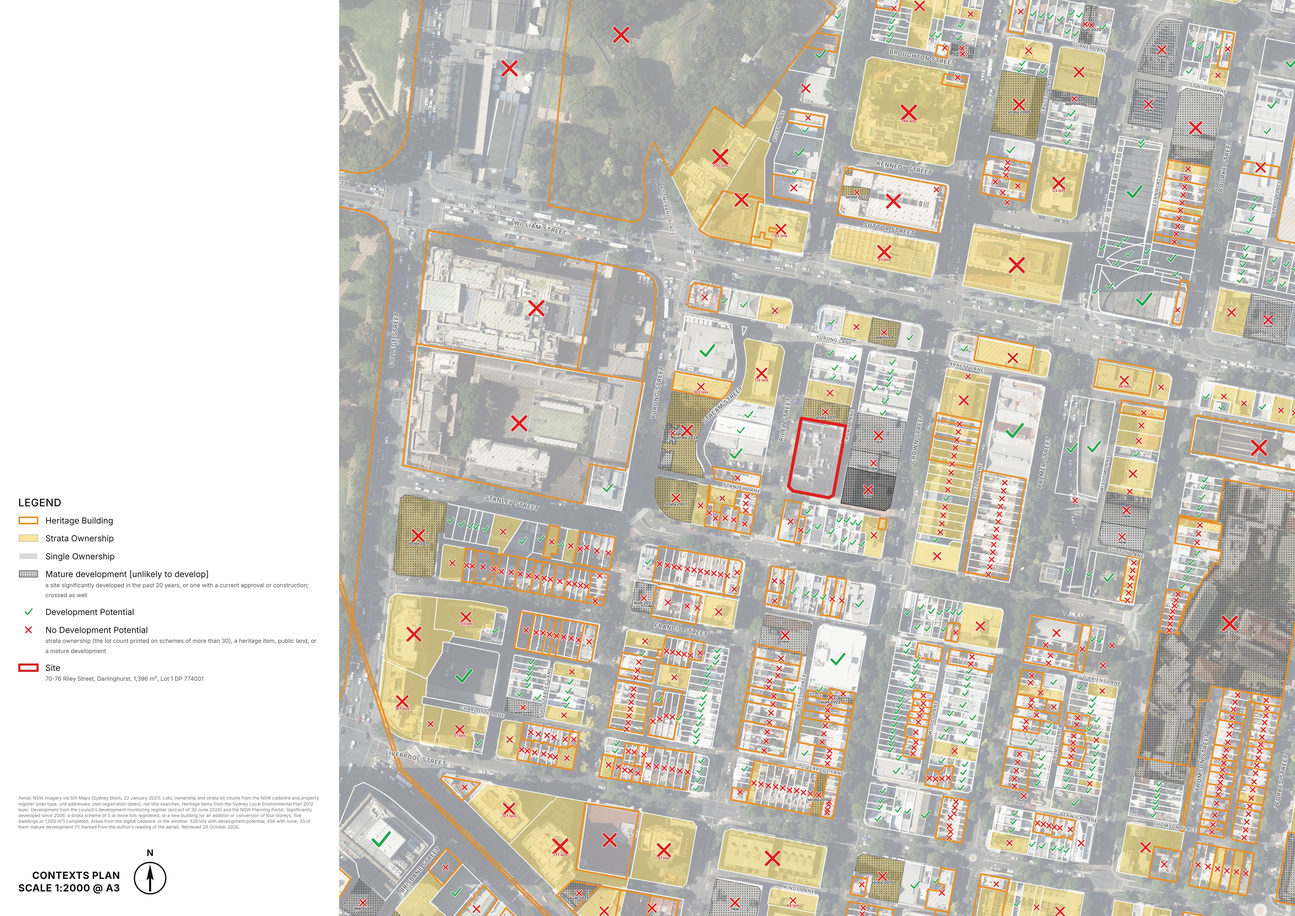
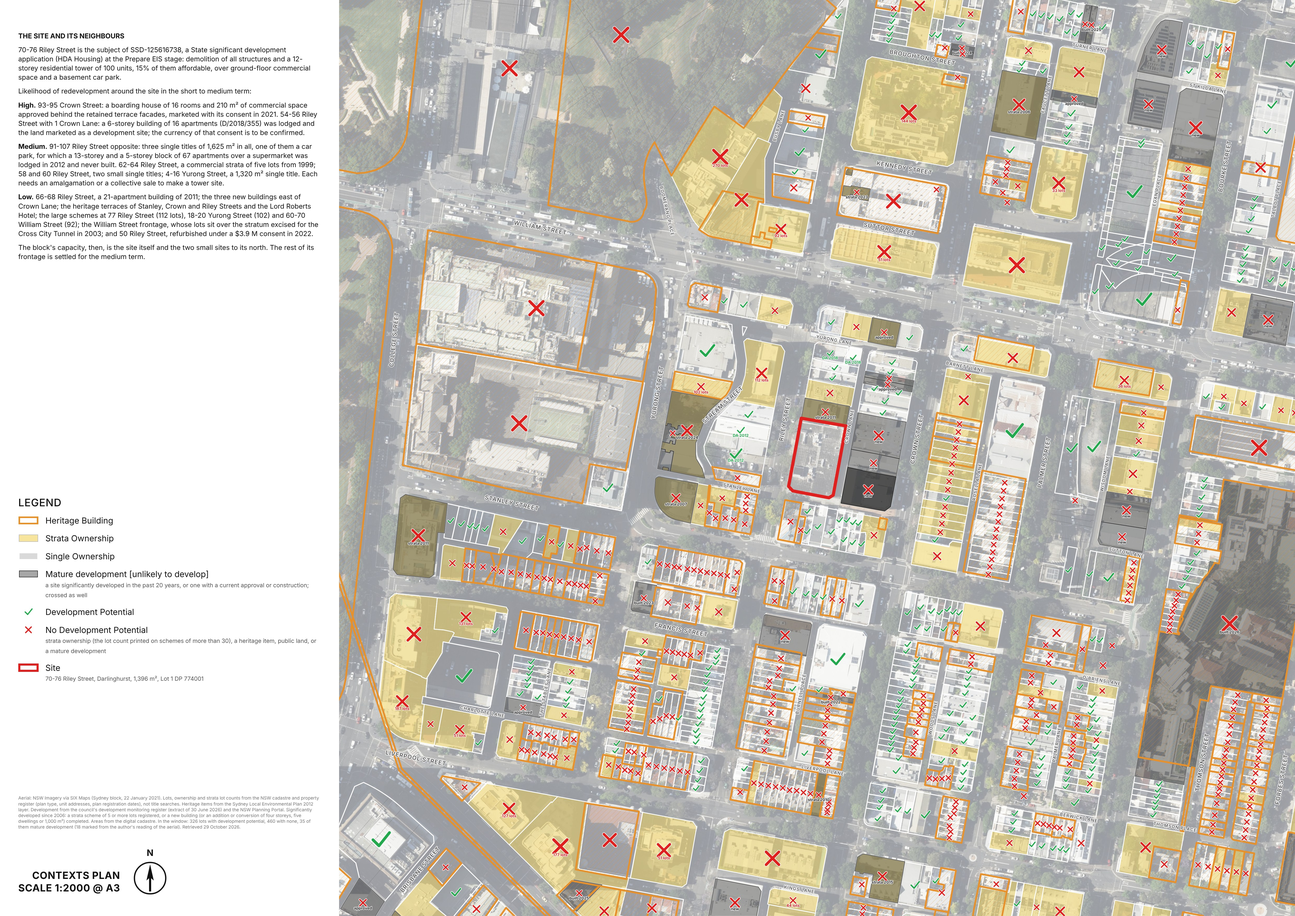
Capacity study: a plain grey patch, notes in the panel, and the Riley Street example read again
The mature development's patch is a plain translucent grey: a pattern fill
there made Chromium rasterise the print, and the PDF sixteen megabytes
heavier. A note under a tick takes the tick's green.

The Riley Street example now fills the panel with notes: the site's State
significant application (SSD-125616738, a 12-storey tower of 100 units,
15% affordable, at Prepare EIS) and the likelihood of redevelopment around
it. Its overrides add the approved boarding house at 93-95 Crown Street
and the schemes lodged for 54-56 Riley Street (2018) and 91-107 Riley
Street (2012), which the Online DA API cannot tell from refusals, since it
carries no outcome.

Claude-Session: https://claude.ai/code/session_01VNRPanhp62ev3Z3T48NYcJ

diff --git a/examples/capacity_study/70-76-riley-street-darlinghurst.notes.html b/examples/capacity_study/70-76-riley-street-darlinghurst.notes.html
@@ -1,0 +1,7 @@
+<p><b>THE SITE AND ITS NEIGHBOURS</b></p>
+<p>70-76 Riley Street is the subject of SSD-125616738, a State significant development application (HDA Housing) at the Prepare EIS stage: demolition of all structures and a 12-storey residential tower of 100 units, 15% of them affordable, over ground-floor commercial space and a basement car park.</p>
+<p>Likelihood of redevelopment around the site in the short to medium term:</p>
+<p><b>High.</b> 93-95 Crown Street: a boarding house of 16 rooms and 210 m² of commercial space approved behind the retained terrace facades, marketed with its consent in 2021. 54-56 Riley Street with 1 Crown Lane: a 6-storey building of 16 apartments (D/2018/355) was lodged and the land marketed as a development site; the currency of that consent is to be confirmed.</p>
+<p><b>Medium.</b> 91-107 Riley Street opposite: three single titles of 1,625 m² in all, one of them a car park, for which a 13-storey and a 5-storey block of 67 apartments over a supermarket was lodged in 2012 and never built. 62-64 Riley Street, a commercial strata of five lots from 1999; 58 and 60 Riley Street, two small single titles; 4-16 Yurong Street, a 1,320 m² single title. Each needs an amalgamation or a collective sale to make a tower site.</p>
+<p><b>Low.</b> 66-68 Riley Street, a 21-apartment building of 2011; the three new buildings east of Crown Lane; the heritage terraces of Stanley, Crown and Riley Streets and the Lord Roberts Hotel; the large schemes at 77 Riley Street (112 lots), 18-20 Yurong Street (102) and 60-70 William Street (92); the William Street frontage, whose lots sit over the stratum excised for the Cross City Tunnel in 2003; and 50 Riley Street, refurbished under a $3.9 M consent in 2022.</p>
+<p>The block's capacity, then, is the site itself and the two small sites to its north. The rest of its frontage is settled for the medium term.</p>

diff --git a/scripts/capacity_study/render.py b/scripts/capacity_study/render.py
@@ -73,7 +73,7 @@ ORANGE, WHITE, STRATA, RED, GREEN, CROSS, DOT, INK, GREY = '#e8912a', '#ffffff',
 svg = [f'<svg xmlns="http://www.w3.org/2000/svg" viewBox="{f(VX)} {f(VY)} {f(VW)} {f(VH)}" width="{MAP_W}" height="{MAP_H}" font-family="Inter, Helvetica, Arial, sans-serif">']
 svg.append(f'''<defs>
 <pattern id="heritage" patternUnits="userSpaceOnUse" width="{w(14)}" height="{w(14)}" patternTransform="rotate(45)"><line x1="0" y1="0" x2="0" y2="{w(14)}" stroke="{ORANGE}" stroke-width="{w(1.6)}" stroke-opacity="0.55"/></pattern>
-<pattern id="mature" patternUnits="userSpaceOnUse" width="{w(9)}" height="{w(9)}"><rect width="{w(9)}" height="{w(9)}" fill="{DOT}" fill-opacity="0.22"/><circle cx="{w(4.5)}" cy="{w(4.5)}" r="{w(1.7)}" fill="{DOT}" fill-opacity="0.9"/></pattern>
+<pattern id="mature" patternUnits="userSpaceOnUse" width="{w(10)}" height="{w(10)}"><rect width="{w(10)}" height="{w(10)}" fill="{DOT}" fill-opacity="0.22"/><path d="M0,{w(5)} H{w(10)} M{w(5)},0 V{w(10)}" stroke="{DOT}" stroke-width="{w(1.4)}" stroke-opacity="0.85"/></pattern>
 <clipPath id="win"><rect x="{f(VX)}" y="{f(VY)}" width="{f(VW)}" height="{f(VH)}"/></clipPath>
 </defs>''')
 svg.append('<g clip-path="url(#win)">')
@@ -118,7 +118,7 @@ for pid, r in sorted(props.items(), key=lambda kv: kv[1]['kind'] != 'strata'):
 # mature development: a grey patch over the lot
 for pid, r in props.items():
     if r['geom'] and visible(r) and not r.get('isSite') and mature(r):
-        svg.append(f'<path d="{path(r["geom"])}" fill="url(#mature)" stroke="{DOT}" stroke-width="{w(2)}" stroke-opacity="0.7" stroke-linejoin="round"/>')
+        svg.append(f'<path d="{path(r["geom"])}" fill="{DOT}" fill-opacity="0.42" stroke="{DOT}" stroke-width="{w(2)}" stroke-opacity="0.8" stroke-linejoin="round"/>')
 # heritage buildings: an orange line with a fine orange hatch inside it
 for h in a['heritageItems']:
     svg.append(f'<path d="{path(h["rings"])}" fill="url(#heritage)" stroke="{ORANGE}" stroke-width="{w(6.5)}" stroke-linejoin="round"/>')
@@ -163,7 +163,7 @@ for pid, r in props.items():
         note = str(r['override']['note'])
     if note and not any(math.hypot(x - nx, y - ny) < 70 * U for nx, ny in noted):  # two marks a few millimetres apart share one note
         noted.append((x, y))
-        svg.append(f'<text x="{f(x)}" y="{f(y + s * 0.3 + 16 * U)}" font-size="{w(15)}" font-weight="700" text-anchor="middle" fill="{DOT if mature(r) else CROSS}" stroke="#fff" stroke-width="{w(3)}" paint-order="stroke">{note}</text>')
+        svg.append(f'<text x="{f(x)}" y="{f(y + s * 0.3 + 16 * U)}" font-size="{w(15)}" font-weight="700" text-anchor="middle" fill="{GREEN if kind == "potential" else DOT if mature(r) else CROSS}" stroke="#fff" stroke-width="{w(3)}" paint-order="stroke">{note}</text>')
 
 
 # ---- the streets, named along their centrelines -----------------------------------------------------------------
@@ -235,7 +235,7 @@ legend = [
     (swatch(f'<rect x="4" y="4" width="70" height="24" fill="none" stroke="{ORANGE}" stroke-width="6"/>'), 'Heritage Building'),
     (swatch(f'<rect x="3" y="3" width="72" height="26" fill="{STRATA}" fill-opacity="0.6" stroke="#bbb" stroke-width="2"/>'), 'Strata Ownership'),
     (swatch(f'<rect x="3" y="3" width="72" height="26" fill="#d9d9d9" stroke="{WHITE}" stroke-width="4"/>'), 'Single Ownership'),
-    (swatch(f'<defs><pattern id="lmature" patternUnits="userSpaceOnUse" width="9" height="9"><rect width="9" height="9" fill="{DOT}" fill-opacity="0.22"/><circle cx="4.5" cy="4.5" r="1.7" fill="{DOT}" fill-opacity="0.9"/></pattern></defs><rect x="4" y="4" width="70" height="24" fill="url(#lmature)" stroke="{DOT}" stroke-width="2"/>'), f'Mature development [unlikely to develop]<br><span class="fine">a site significantly developed in the past {RECENT_YEARS} years, or one with a current approval or construction; crossed as well</span>'),
+    (swatch(f'<rect x="4" y="4" width="70" height="24" fill="{DOT}" fill-opacity="0.42" stroke="{DOT}" stroke-width="2"/>'), f'Mature development [unlikely to develop]<br><span class="fine">a site significantly developed in the past {RECENT_YEARS} years, or one with a current approval or construction; crossed as well</span>'),
     (swatch(tick(39, 16, 30, 4.5).replace(f'{4.5 + 4 * U:.1f}', '8')), 'Development Potential'),
     (swatch(cross(39, 16, 30, 4.5).replace(f'{4.5 + 4 * U:.1f}', '8')), f'No Development Potential<br><span class="fine">strata ownership (the lot count printed on schemes of more than {STRATA_MAX}), a heritage item, public land, or a mature development</span>'),
     (swatch(f'<rect x="4" y="4" width="70" height="24" fill="none" stroke="{RED}" stroke-width="8"/>'), f'Site<br><span class="fine">{H.escape(caption)}, {fmt(site["areaM2"])} m², {H.escape(lot_desc)}</span>'),

diff --git a/README.md b/README.md
@@ -1529,7 +1529,9 @@ begins, read off the aerial: `{"121-129 CROWN STREET": {"symbol": "mature",
 "note": "new"}}`, keyed by the start of the address as the register writes
 it, and the sheet's fine print counts them), `--out` names the folder and `--redraw` draws again
 from what was already fetched. `examples/capacity_study/` holds the sheet for
-70-76 Riley Street, Darlinghurst, with its overrides file.
+70-76 Riley Street, Darlinghurst, with its overrides file and the notes that
+fill the panel (the site's State significant application and the likelihood
+of redevelopment around it).
 
 What the sheet reads, all open data (`scripts/capacity_study.ts` fetches,
 `scripts/capacity_study/analyse.py` classifies, `render.py` draws):
